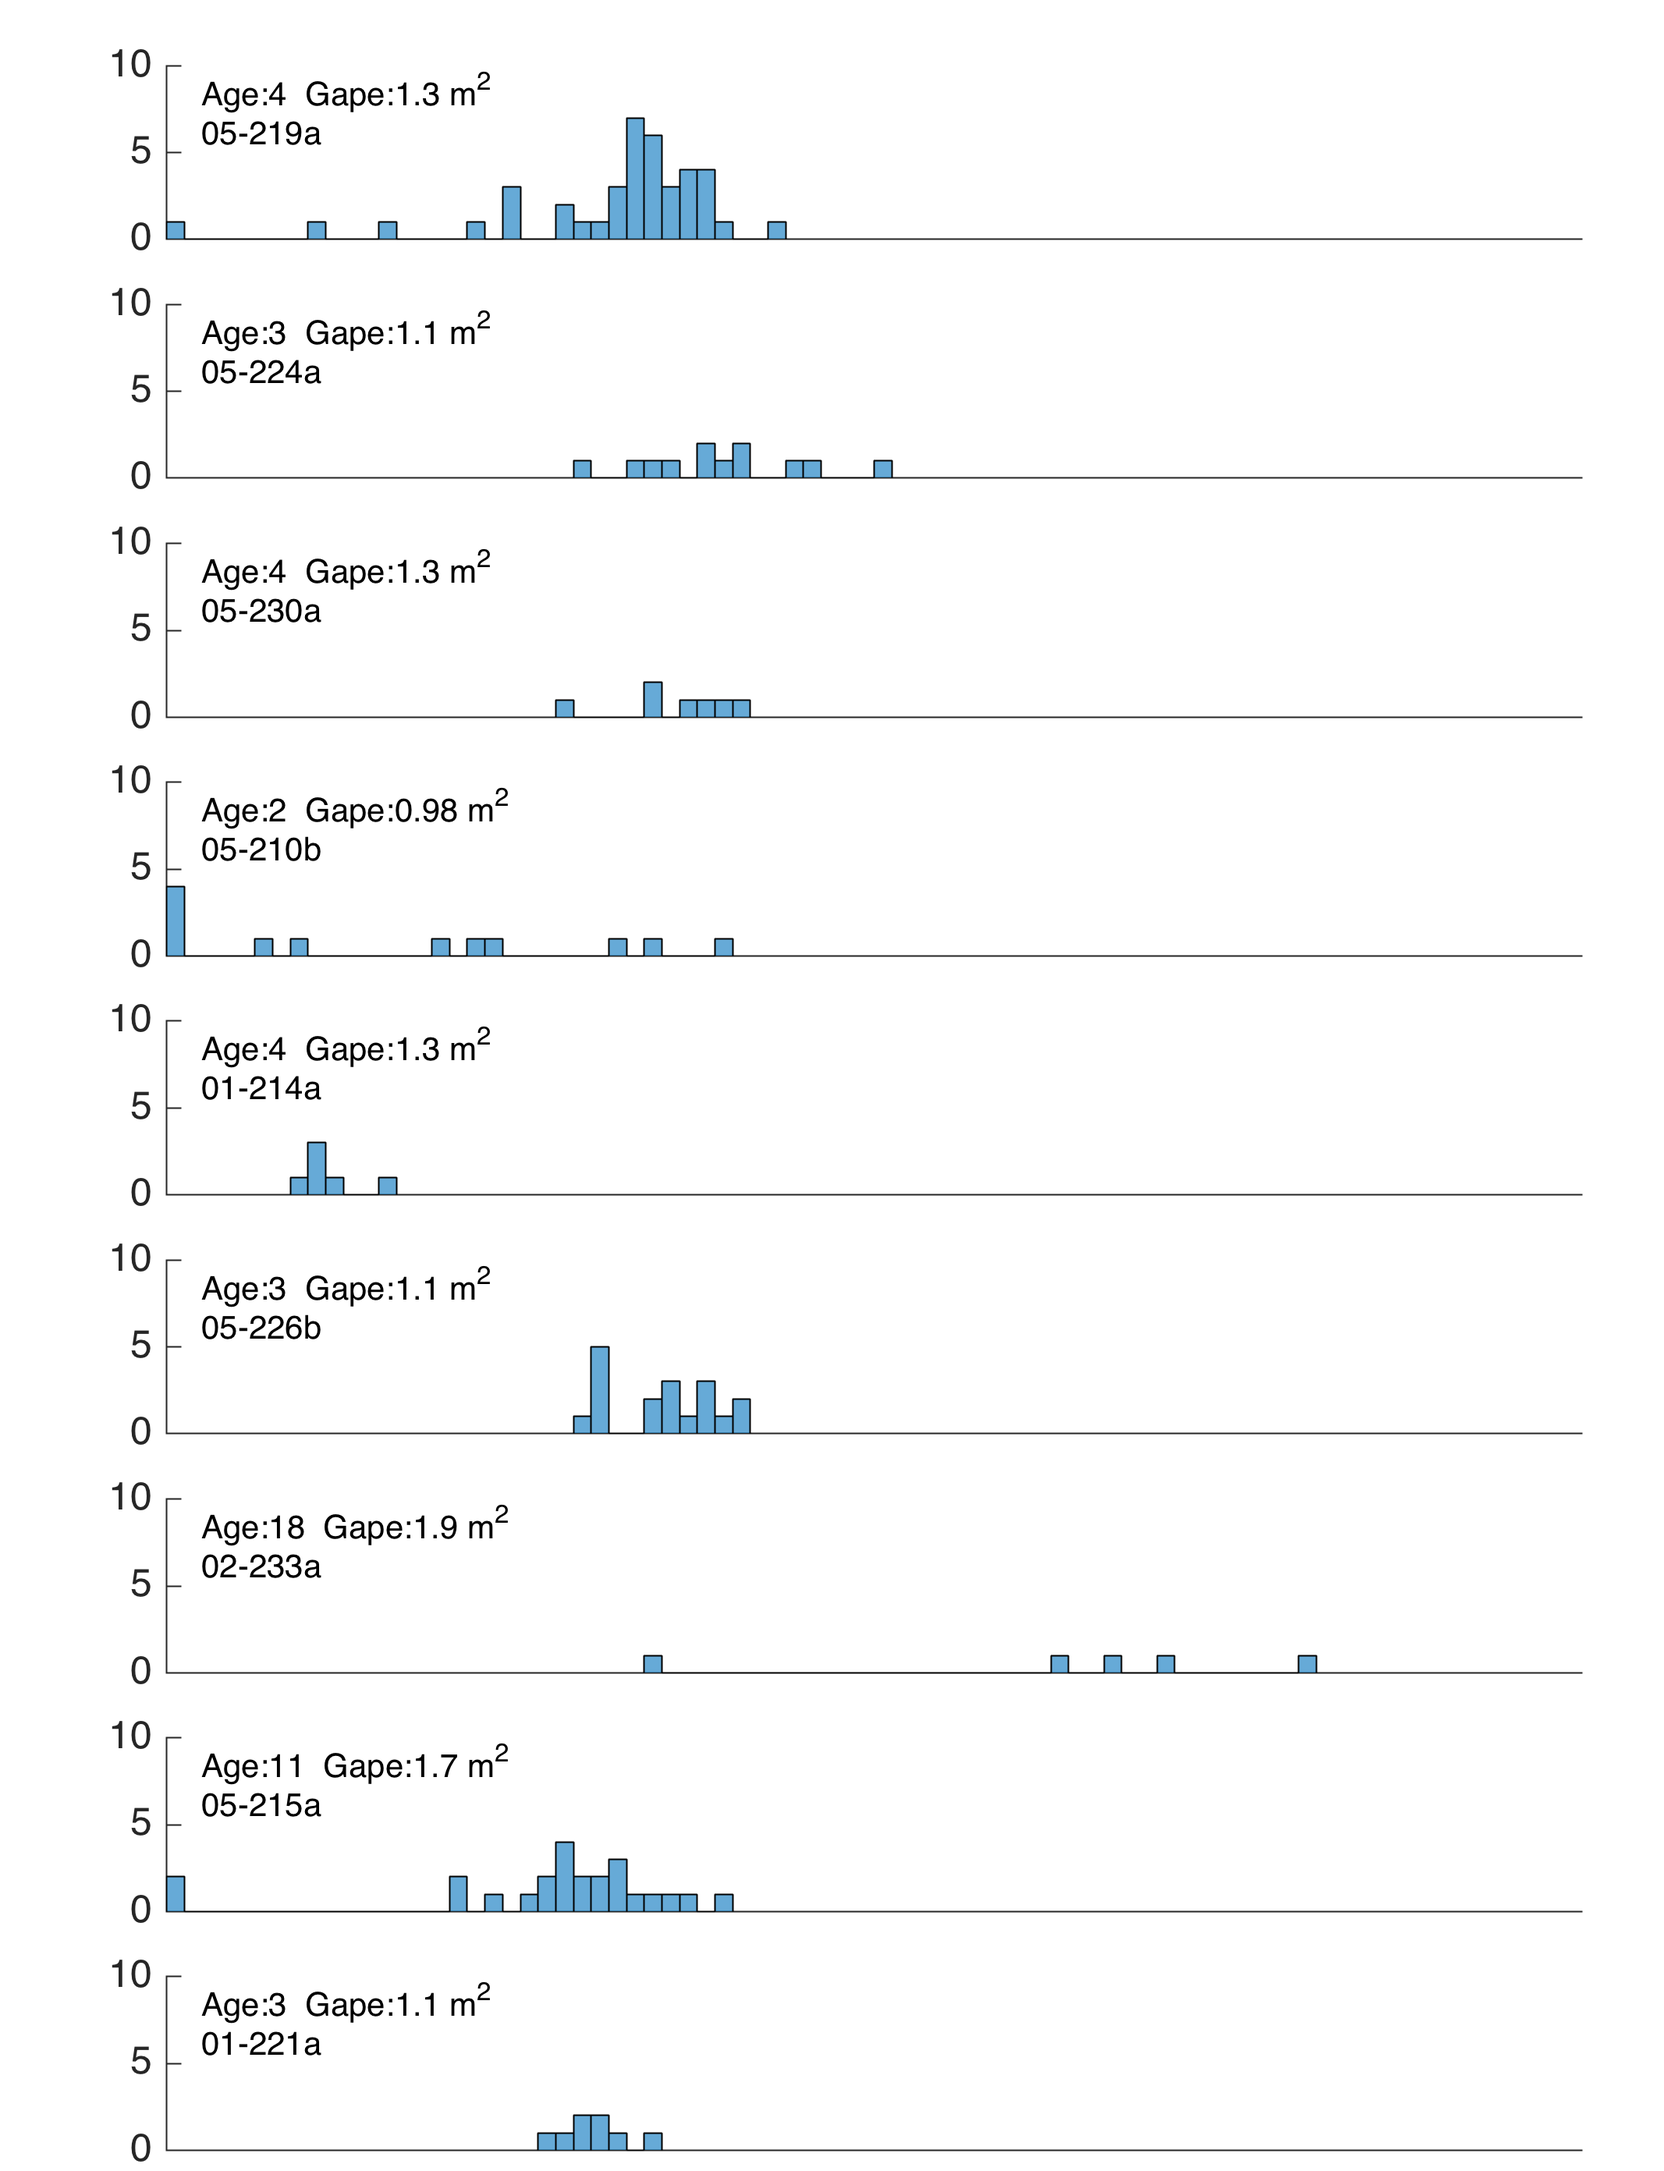
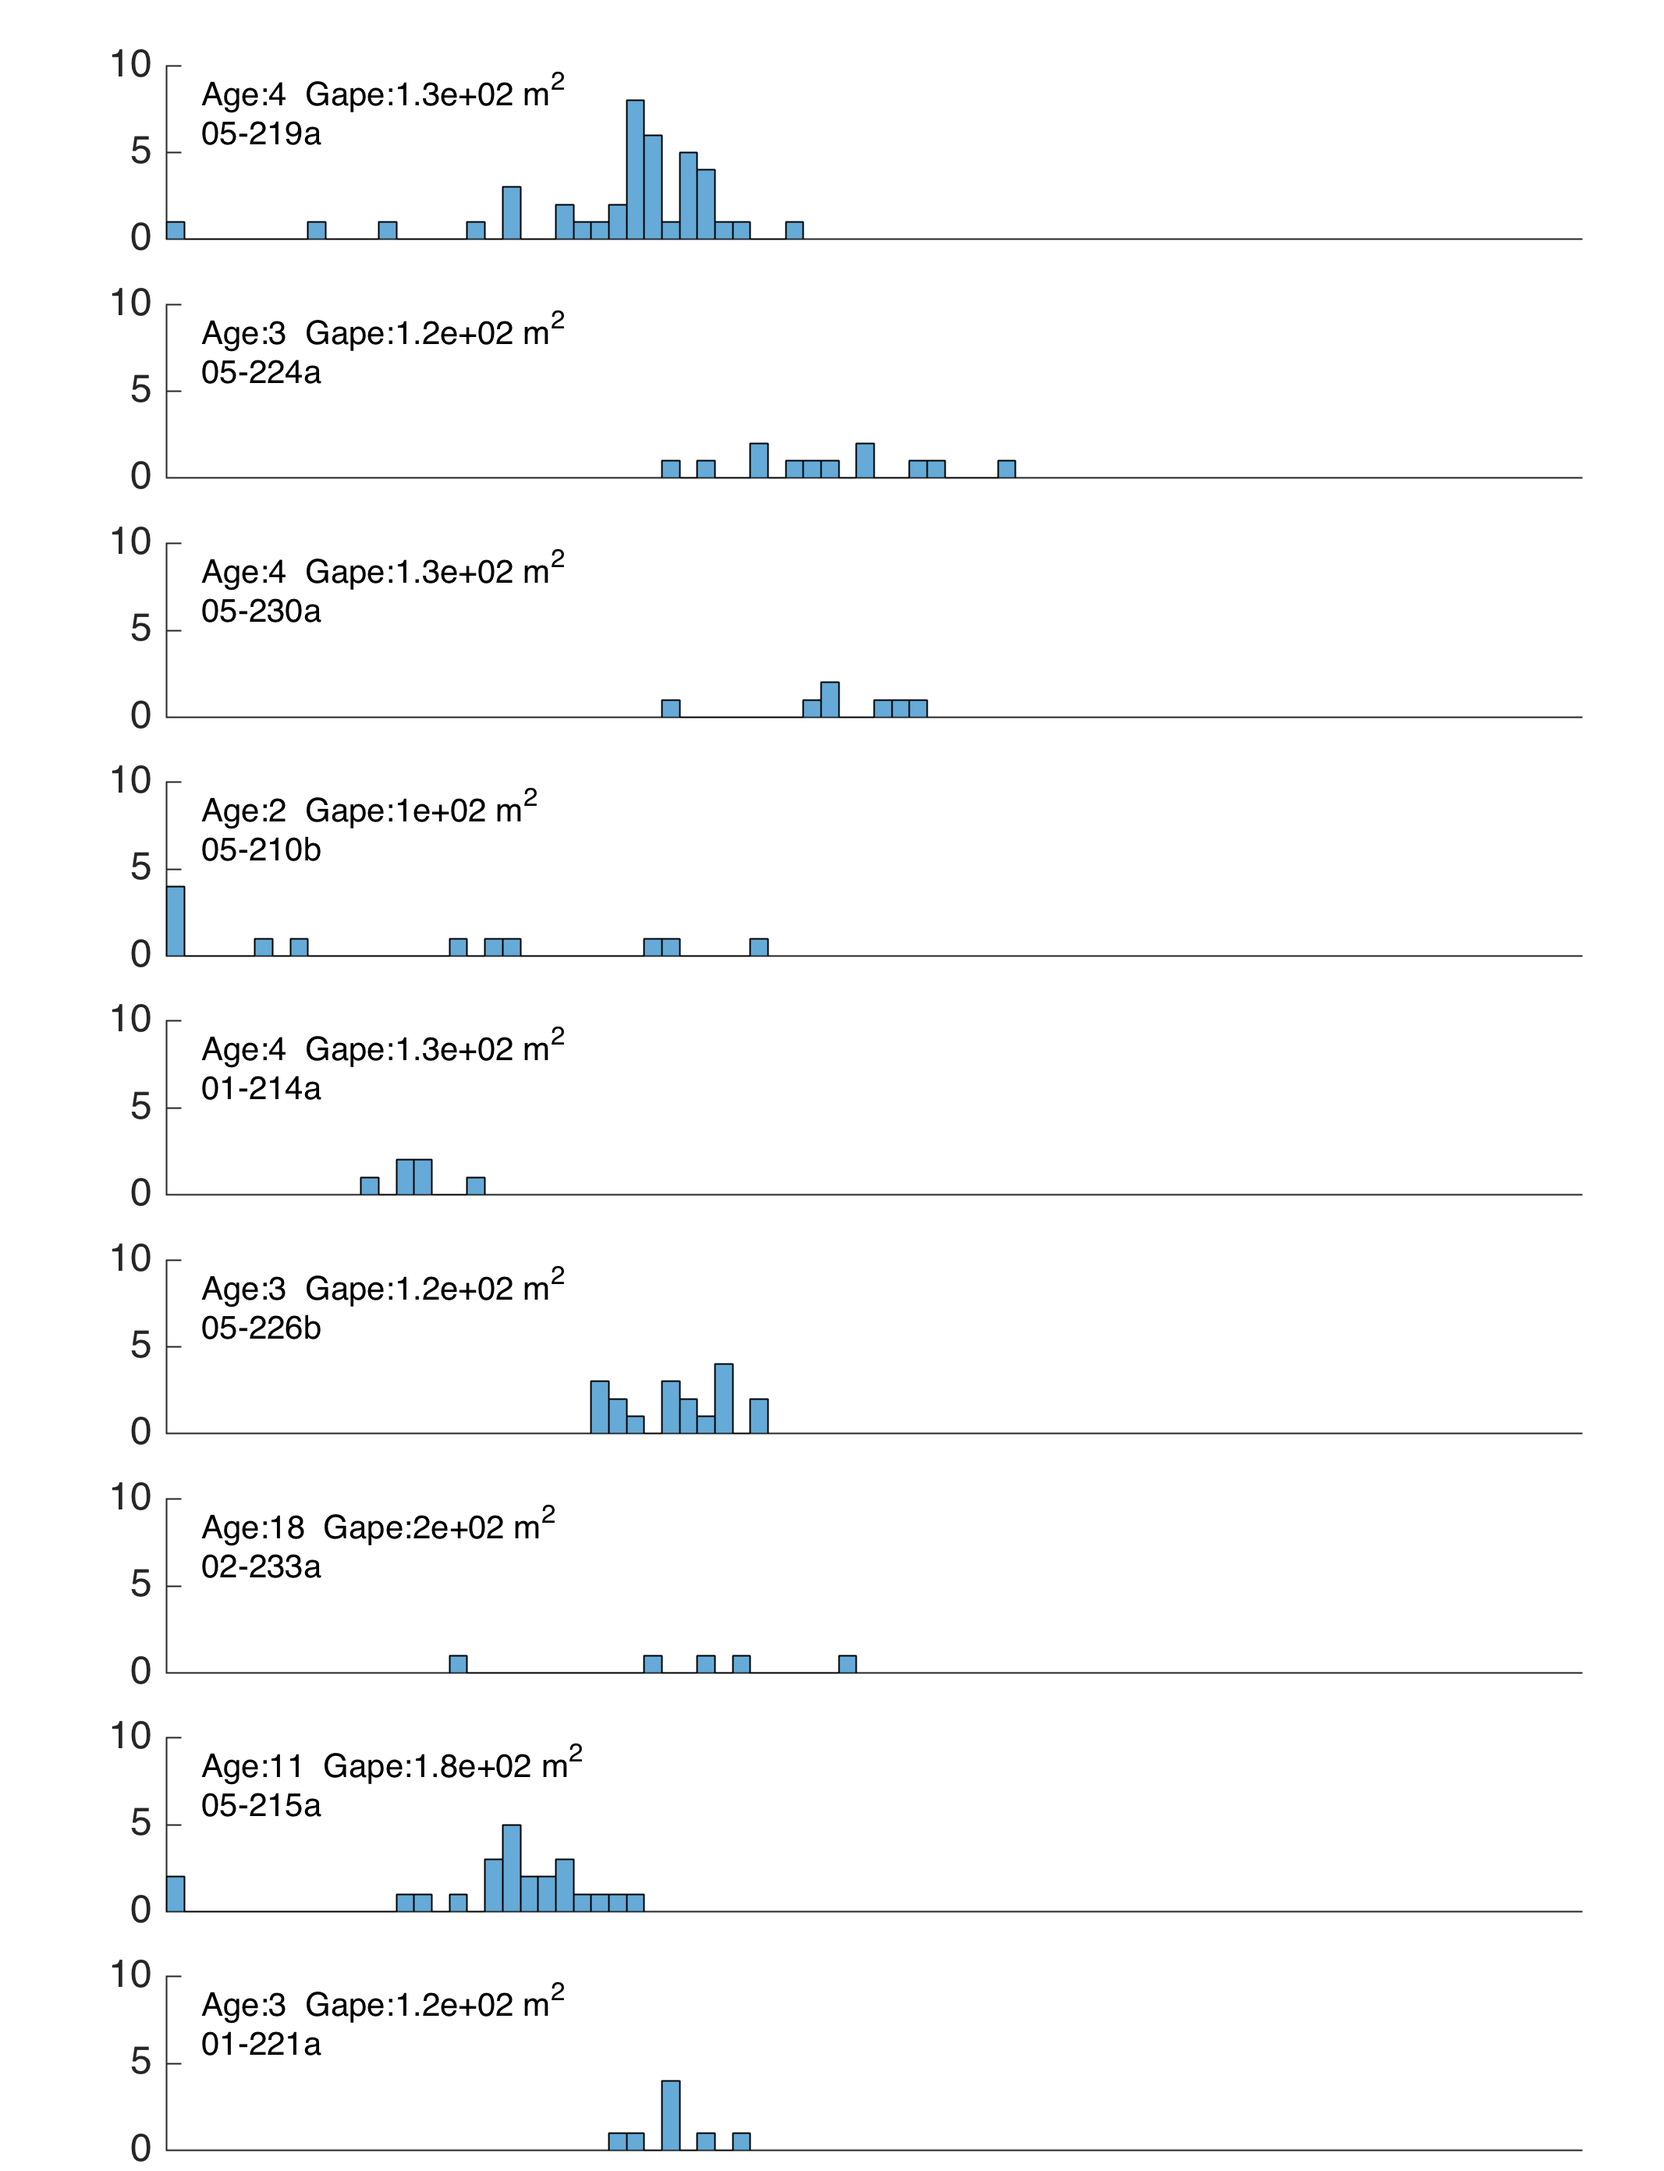
filtration rates with new gapes

diff --git a/NARW_totalVolume.m b/NARW_totalVolume.m
@@ -200,6 +200,7 @@ X = [allbtmspeed' gapes' alldur.*(allprop(:,2)-allprop(:,1))];
 lm_vol = fitlm(X,allvperdive)
 figure
 h = plotEffects(lm_vol)
+% h(1).XData 
 %% proportional depth figure
 % figure(111), clf, hold on
 % col = viridis(17); % ages 2 to 18
@@ -231,8 +232,22 @@ for i = 1:size(tags,1)
     dep_filtrate(i) = sum(allvols(tagid == i))/(gettagdur(tags{i})/3600);
 end
 round([min(dep_filtrate) max(dep_filtrate)])
+gapes = []; 
 for i = 1:length(allspeeds)
-    gape = getgape(tags{tagid(i),6});
+    ID = tagid(i);
+    switch ID
+        case 5
+            [gape,~,~,~,lnth] = getgape(tags{ID,6}, 1190);
+        case 9
+            [gape,~,~,~,lnth] = getgape(tags{ID,6}, 1210);
+        case 7
+            [gape,~,~,~,lnth] = getgape(tags{ID,6}, 1250);
+        case 8
+            [gape,~,~,~,lnth] = getgape(tags{ID,6}, 1250);
+        otherwise
+            [gape,~,~,~,lnth] = getgape(tags{ID,6});
+    end
+    gape = gape/100; 
     all_hr_rate(:,i) = allspeeds(i)*gape*3600; % filtration rate of all (m3/h) at the bottom of dives
     gapes(:,i) = gape;
 end
@@ -262,6 +277,7 @@ figure
 plot(alltort(allvperdive > 1,1),mnboutdur(allvperdive > 1),'o')
 xlabel('Tortuosity'),ylabel('Mean bout duration (sec)')
 lmtort2 = fitlm(alltort(allvperdive > 1,1),mnboutdur(allvperdive > 1))
+
 figure
 plot(alltort(allvperdive > 1,1),allvperdive(allvperdive > 1),'o')
 xlabel('Tortuosity'),ylabel('Total volume filtered (m^3)')
@@ -317,12 +333,13 @@ ylabel('Filtration rate (m^3/h)')
 adjustfigurefont('Helvetica',16)
 
 figure(101), clf, hold on
-scatterby(tagid2,3600*(allvperdive./allbtmdur),30,col(tagid2,:));
+scatterby(tagid2,3600*(allvperdive(allvperdive > 1)./allbtmdur(allvperdive > 1)),30,col(tagid2,:));
 scatterby(11+tagid2(find(allvperdive>1)),dbd_vrate(allvperdive > 1),30,col(tagid2(find(allvperdive>1)),:));
 scatterby(22+[1:10],dep_filtrate,30,col(1:10,:));
 ylabel('Filtration rate (m^3/h)')
 set(gca,'xtick',6:10:26,'xticklabels',{'On bottom','Per dive','Per deployment'})
 adjustfigurefont('Helvetica',16)
+print -dpng NARW_filtrate -r300
 
 % extend to full day?
 for i = 1:length(dep_filtrate)
